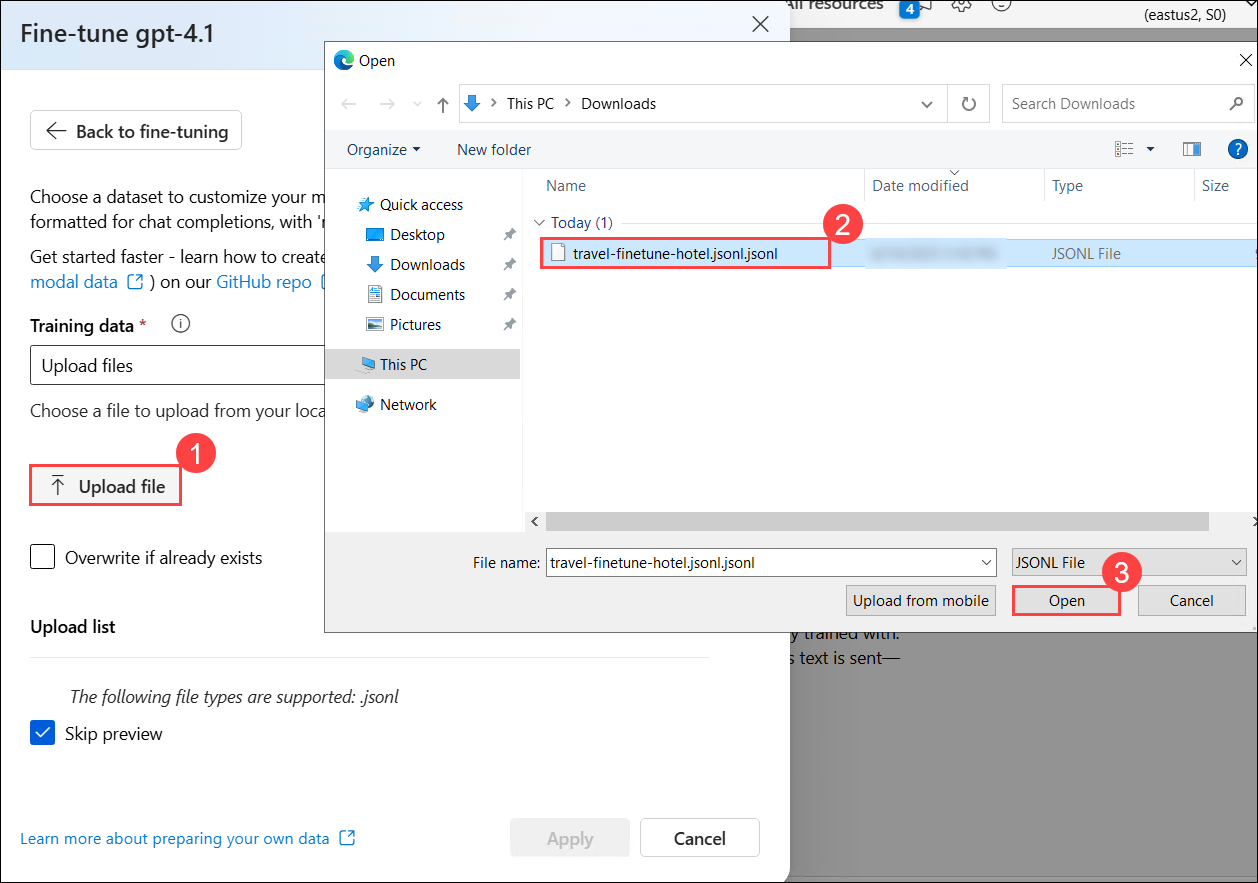
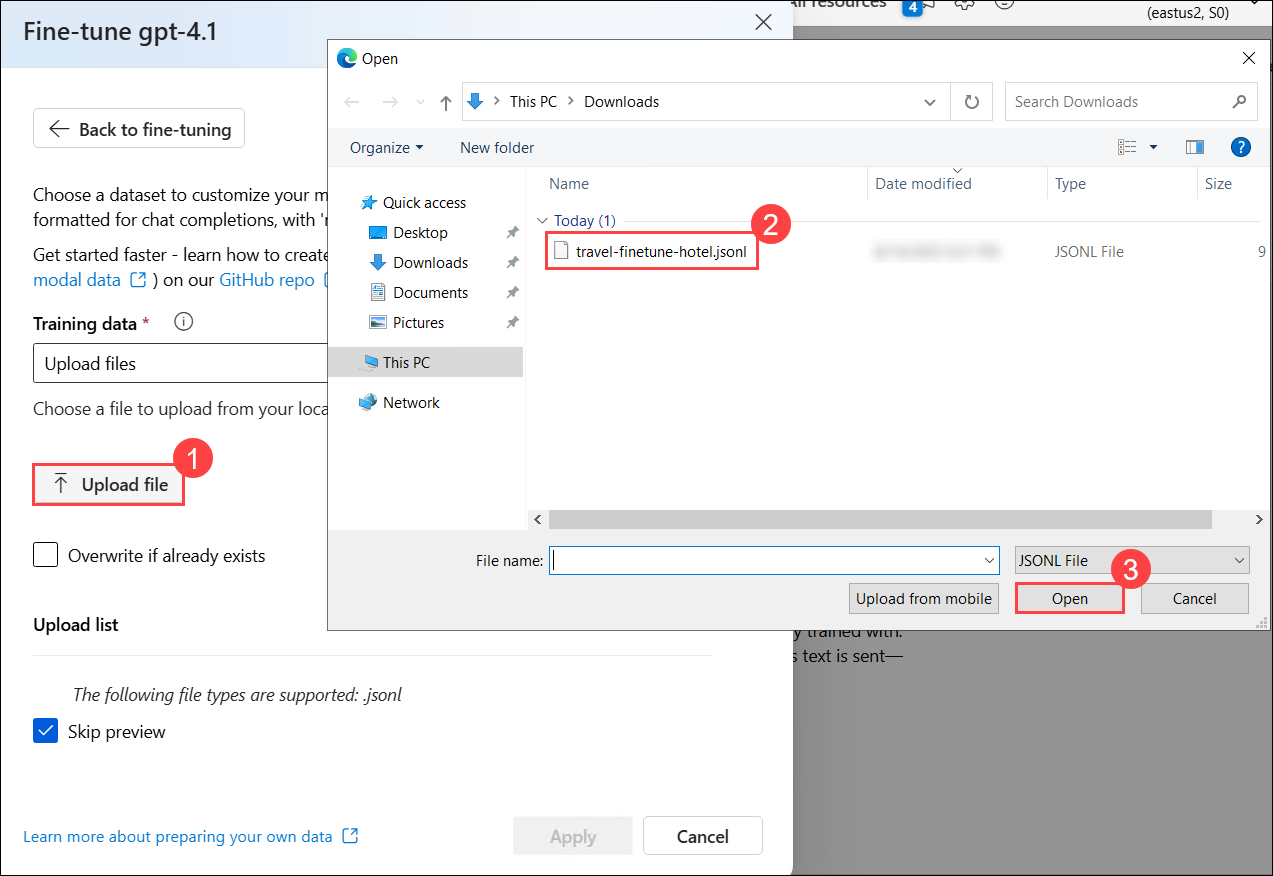
update

diff --git a/Instructions/AI-102/Labs/Lab05.md b/Instructions/AI-102/Labs/Lab05.md
@@ -87,15 +87,22 @@ Let's start by deploying a model in an Azure AI Foundry project.
 
 Because fine-tuning a model takes some time to complete, you'll start the fine-tuning job now and come back to it after exploring the base gpt-4.1 model you already deployed.
 
-1. Download the [training dataset](https://raw.githubusercontent.com/MicrosoftLearning/mslearn-ai-studio/refs/heads/main/data/travel-finetune-hotel.jsonl) at `https://raw.githubusercontent.com/MicrosoftLearning/mslearn-ai-studio/refs/heads/main/data/travel-finetune-hotel.jsonl`and save it as a JSONL file locally.
+1. Open this link in a new browser tab: [training dataset](https://raw.githubusercontent.com/MicrosoftLearning/mslearn-ai-studio/refs/heads/main/data/travel-finetune-hotel.jsonl) (`https://raw.githubusercontent.com/MicrosoftLearning/mslearn-ai-studio/refs/heads/main/data/travel-finetune-hotel.jsonl`). We will use PowerShell to download this file.
 
-    ![](../Images/l5t2p2.png)
+    ![](../Images/l5t4p1.png)
 
-    > **Note**: Your device might default to saving the file as a .txt file. Select all files and remove the .txt suffix to ensure you're saving the file as JSONL.
+1. Type **PowerShell (1)** in the taskbar search bar and select **Windows PowerShell (2)** from the search results.
 
-1. In the **Save as** window, provide the **File name** as **`travel-finetune-hotel.jsonl.jsonl` (1)** and change **Save as type** to **All files (2)** using the drop-down and then click **Save (3)**. 
+    ![](../Images/l5t2p2(1).png)
+
+1. Copy the following command into PowerShell and press Enter to download the file `travel-finetune-hotel.jsonl` to your Downloads folder.
 
     ![](../Images/l5t2p3.png)
+
+    ```
+    cd $env:USERPROFILE\Downloads
+    Invoke-WebRequest -Uri "https://raw.githubusercontent.com/MicrosoftLearning/mslearn-ai-studio/refs/heads/main/data/travel-finetune-hotel.jsonl" -OutFile "$env:USERPROFILE\Downloads\travel-finetune-hotel.jsonl"
+    ```
 
 1. Navigate to the **Fine-tuning (1)** page under the **Build and customize** section, using the menu on the left and then click on **+ Fine-tune model (2)**.
 
@@ -112,15 +119,15 @@ Because fine-tuning a model takes some time to complete, you'll start the fine-t
 
         ![](../Images/l5t2p6.png)
 
-1. In the **Fine-tune gpt-4.1** window, click on the **drop down (1)** from **Training data** and select **Upload files (2)**.
+1. In the **Fine-tune gpt-4.1** window, click on the **drop-down (1)** from **Training data** and select **Upload files (2)**.
 
     ![](../Images/l5t2p7.png)
 
-1. Click **Upload file (1)**, select **`travel-finetune-hotel.jsonl.jsonl` (2)** in the **Open** window, and then click **Open (3)**.
+1. Click **Upload file (1)**, select **`travel-finetune-hotel.jsonl` (2)** in the **Open** window, and then click **Open (3)**.
 
     ![](../Images/l5t2p8.png)
 
-1. In the Fine-tune gpt-4.1 window, verify that the file  **`travel-finetune-hotel.jsonl.jsonl` (1)** has been listed in **Upload list** section and then click **Apply (2)**.
+1. In the Fine-tune gpt-4.1 window, verify that the file  **`travel-finetune-hotel.jsonl` (1)** has been listed in **Upload list** section and then click **Apply (2)**.
 
     ![](../Images/l5t2p9.png)
 
@@ -178,7 +185,7 @@ While you wait for the fine-tuning job to complete, let's chat with a base GPT-4
     You should not provide any hotel, flight, rental car or restaurant recommendations.
     Ask engaging questions to help someone plan their trip and think about what they want to do on their holiday.
     ```
-.
+
 1. Continue testing your chat application to verify it doesn't provide any information that isn't grounded in retrieved data. For example, ask the following questions and review the model's answers, paying particular attention to the tone and writing style that the model uses to respond:
    
     `Where in Rome should I stay?`
@@ -195,10 +202,10 @@ While you wait for the fine-tuning job to complete, let's chat with a base GPT-4
 
 The base model seems to work well enough, but you may be looking for a particular conversational style from your generative AI app. The training data used for fine-tuning offers you the chance to create explicit examples of the kinds of response you want.
 
-1. Open the browser tab from where you saved the JSONL file
+1. Open the JSONL file you downloaded previously (you can open it in any text editor like Notepad).
 
     ![](../Images/l5t4p1.png)
-    
+
 1. Examine the list of the JSON documents in the training data file. The first one should be similar to this (formatted for readability):
 
     ```json
@@ -253,3 +260,6 @@ Now that you deployed your fine-tuned model, you can test it like you tested you
     `What's the best way to get around the city?`
 
 1. After reviewing the responses, how do they compare to those of the base model?
+
+## Summary
+
